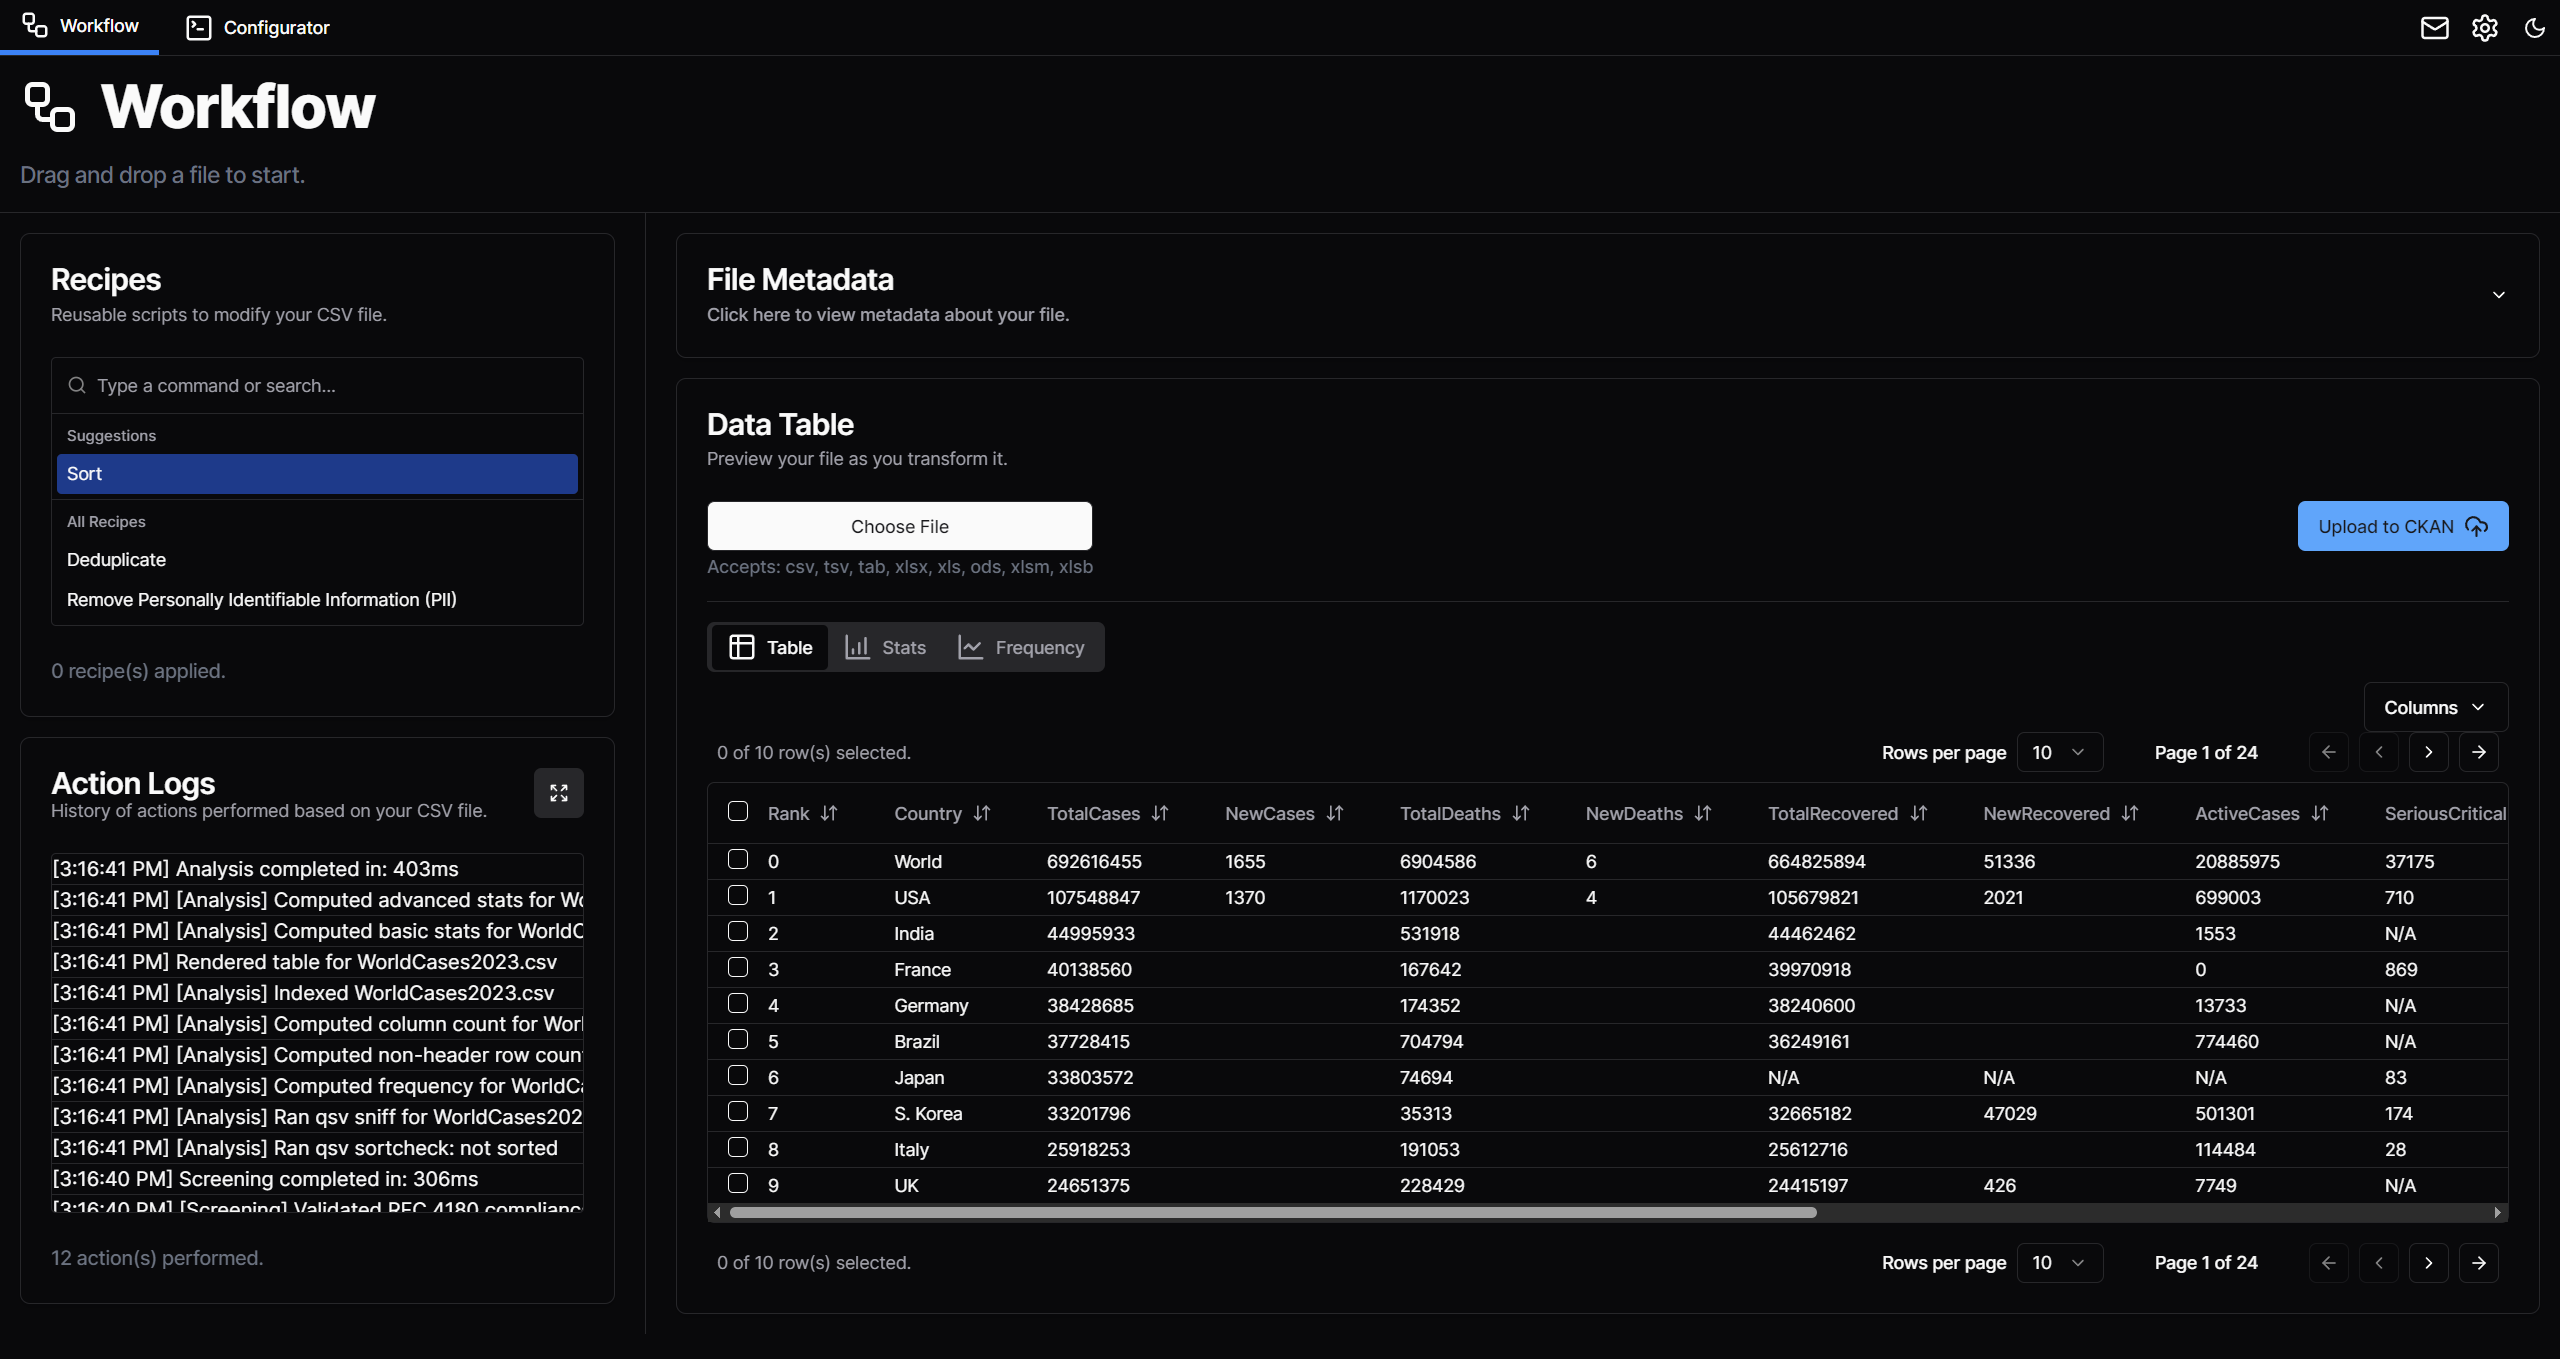
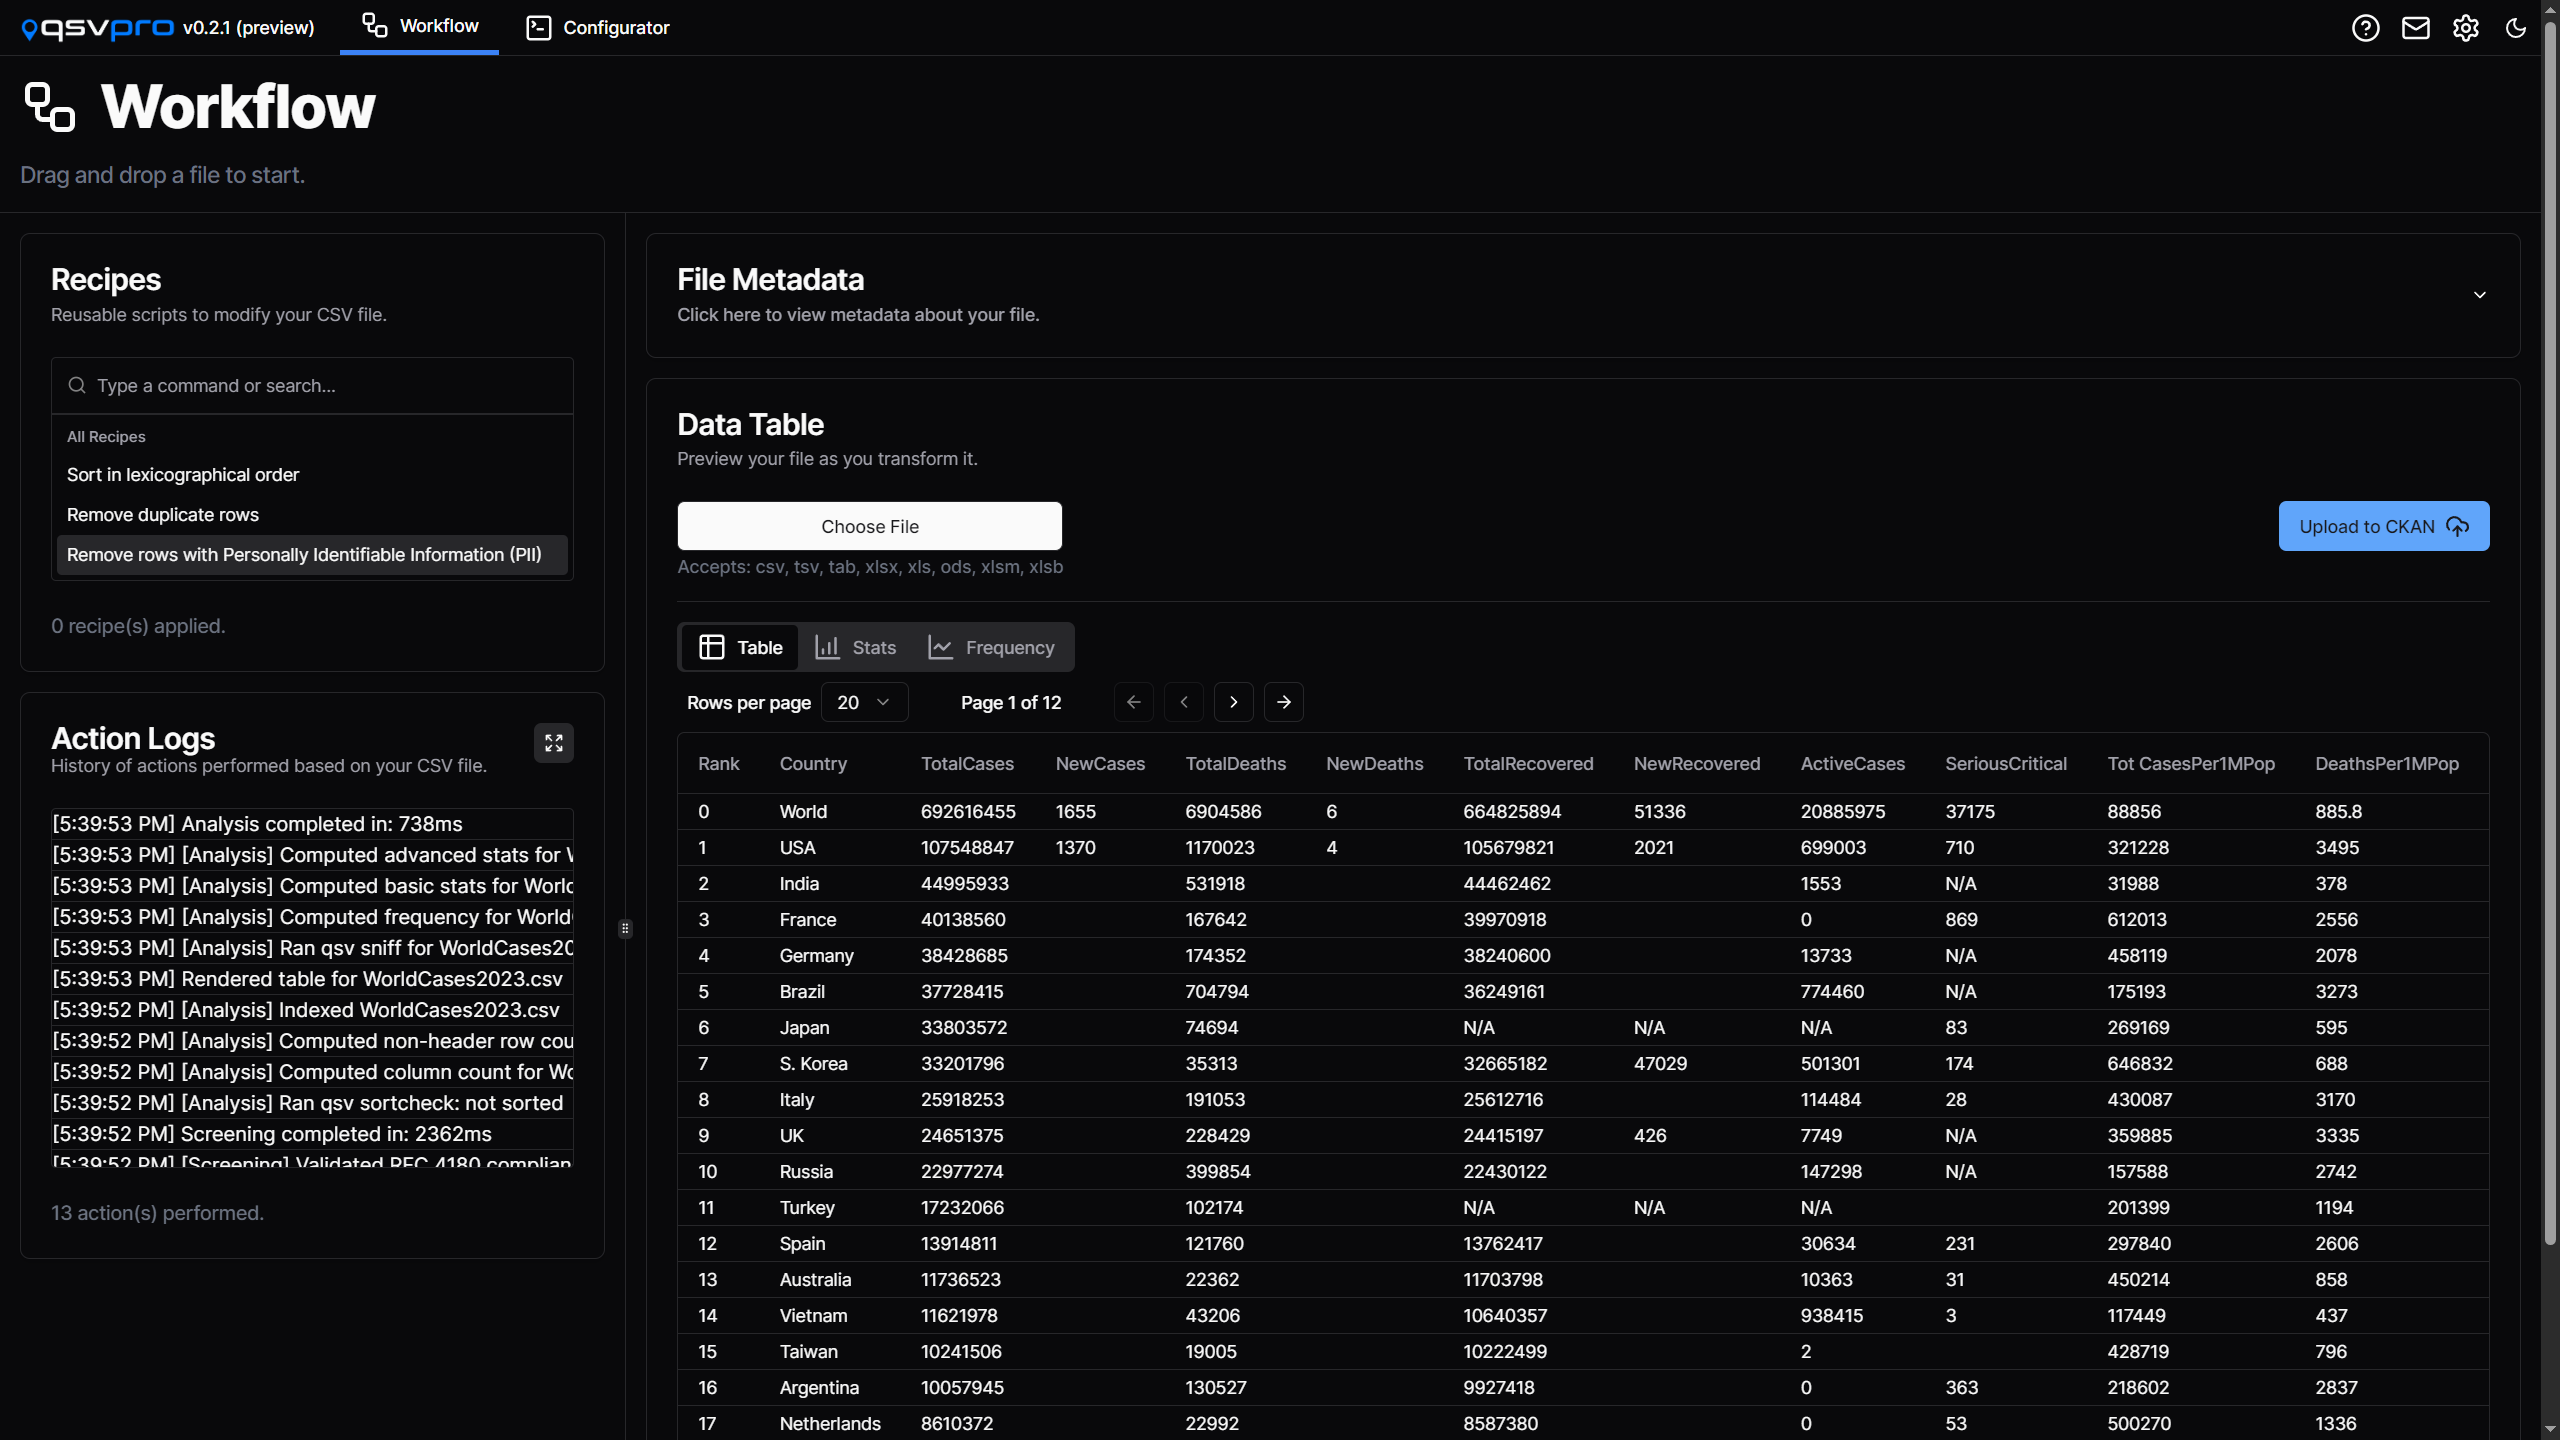
chore: update dashboard/recipes media, clarify recipe names

diff --git a/src/components/Features1.jsx b/src/components/Features1.jsx
@@ -29,7 +29,7 @@ export const Features1 = () => {
                             <ul className="mb-6 text-white">
                                 <li className="mb-4 flex">
                                     <CheckArrowIcon />
-                                    <span>Sort rows</span>
+                                    <span>Sort in lexicographical order</span>
                                 </li>
                                 <li className="mb-4 flex">
                                     <CheckArrowIcon />
@@ -38,7 +38,7 @@ export const Features1 = () => {
                                 <li className="mb-4 flex">
                                     <CheckArrowIcon />
                                     <span>
-                                        Remove Personally Identifiable
+                                        Remove rows with Personally Identifiable
                                         Information (PII)
                                     </span>
                                 </li>
